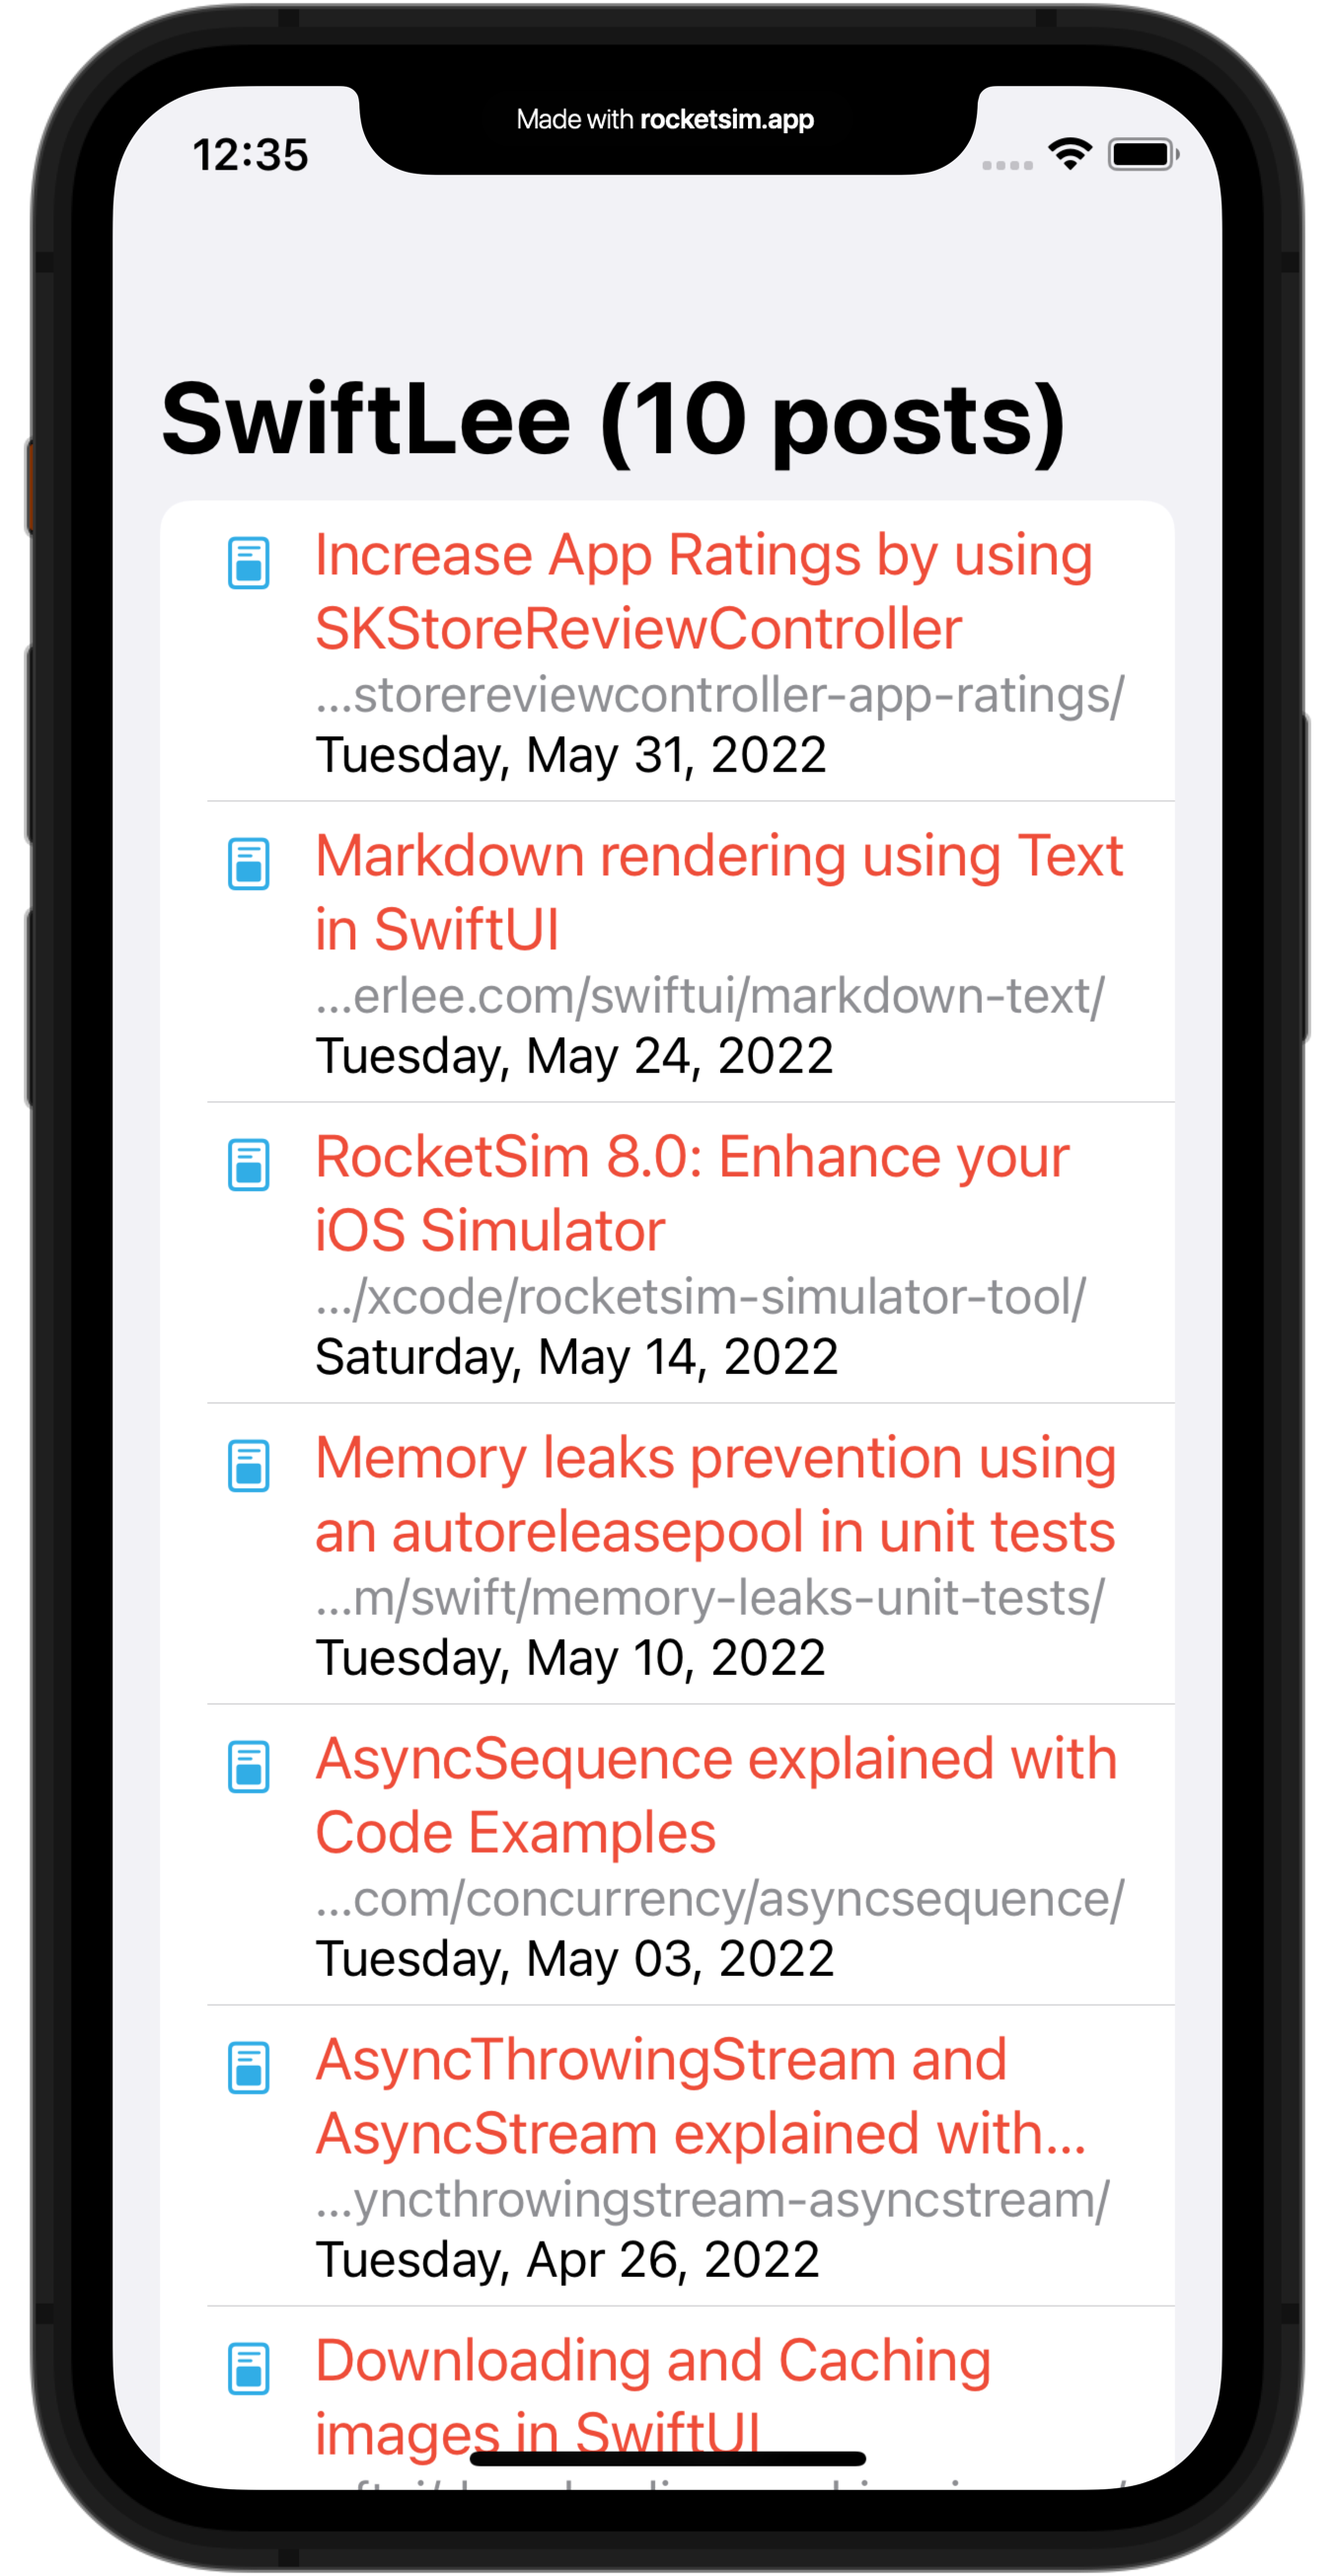
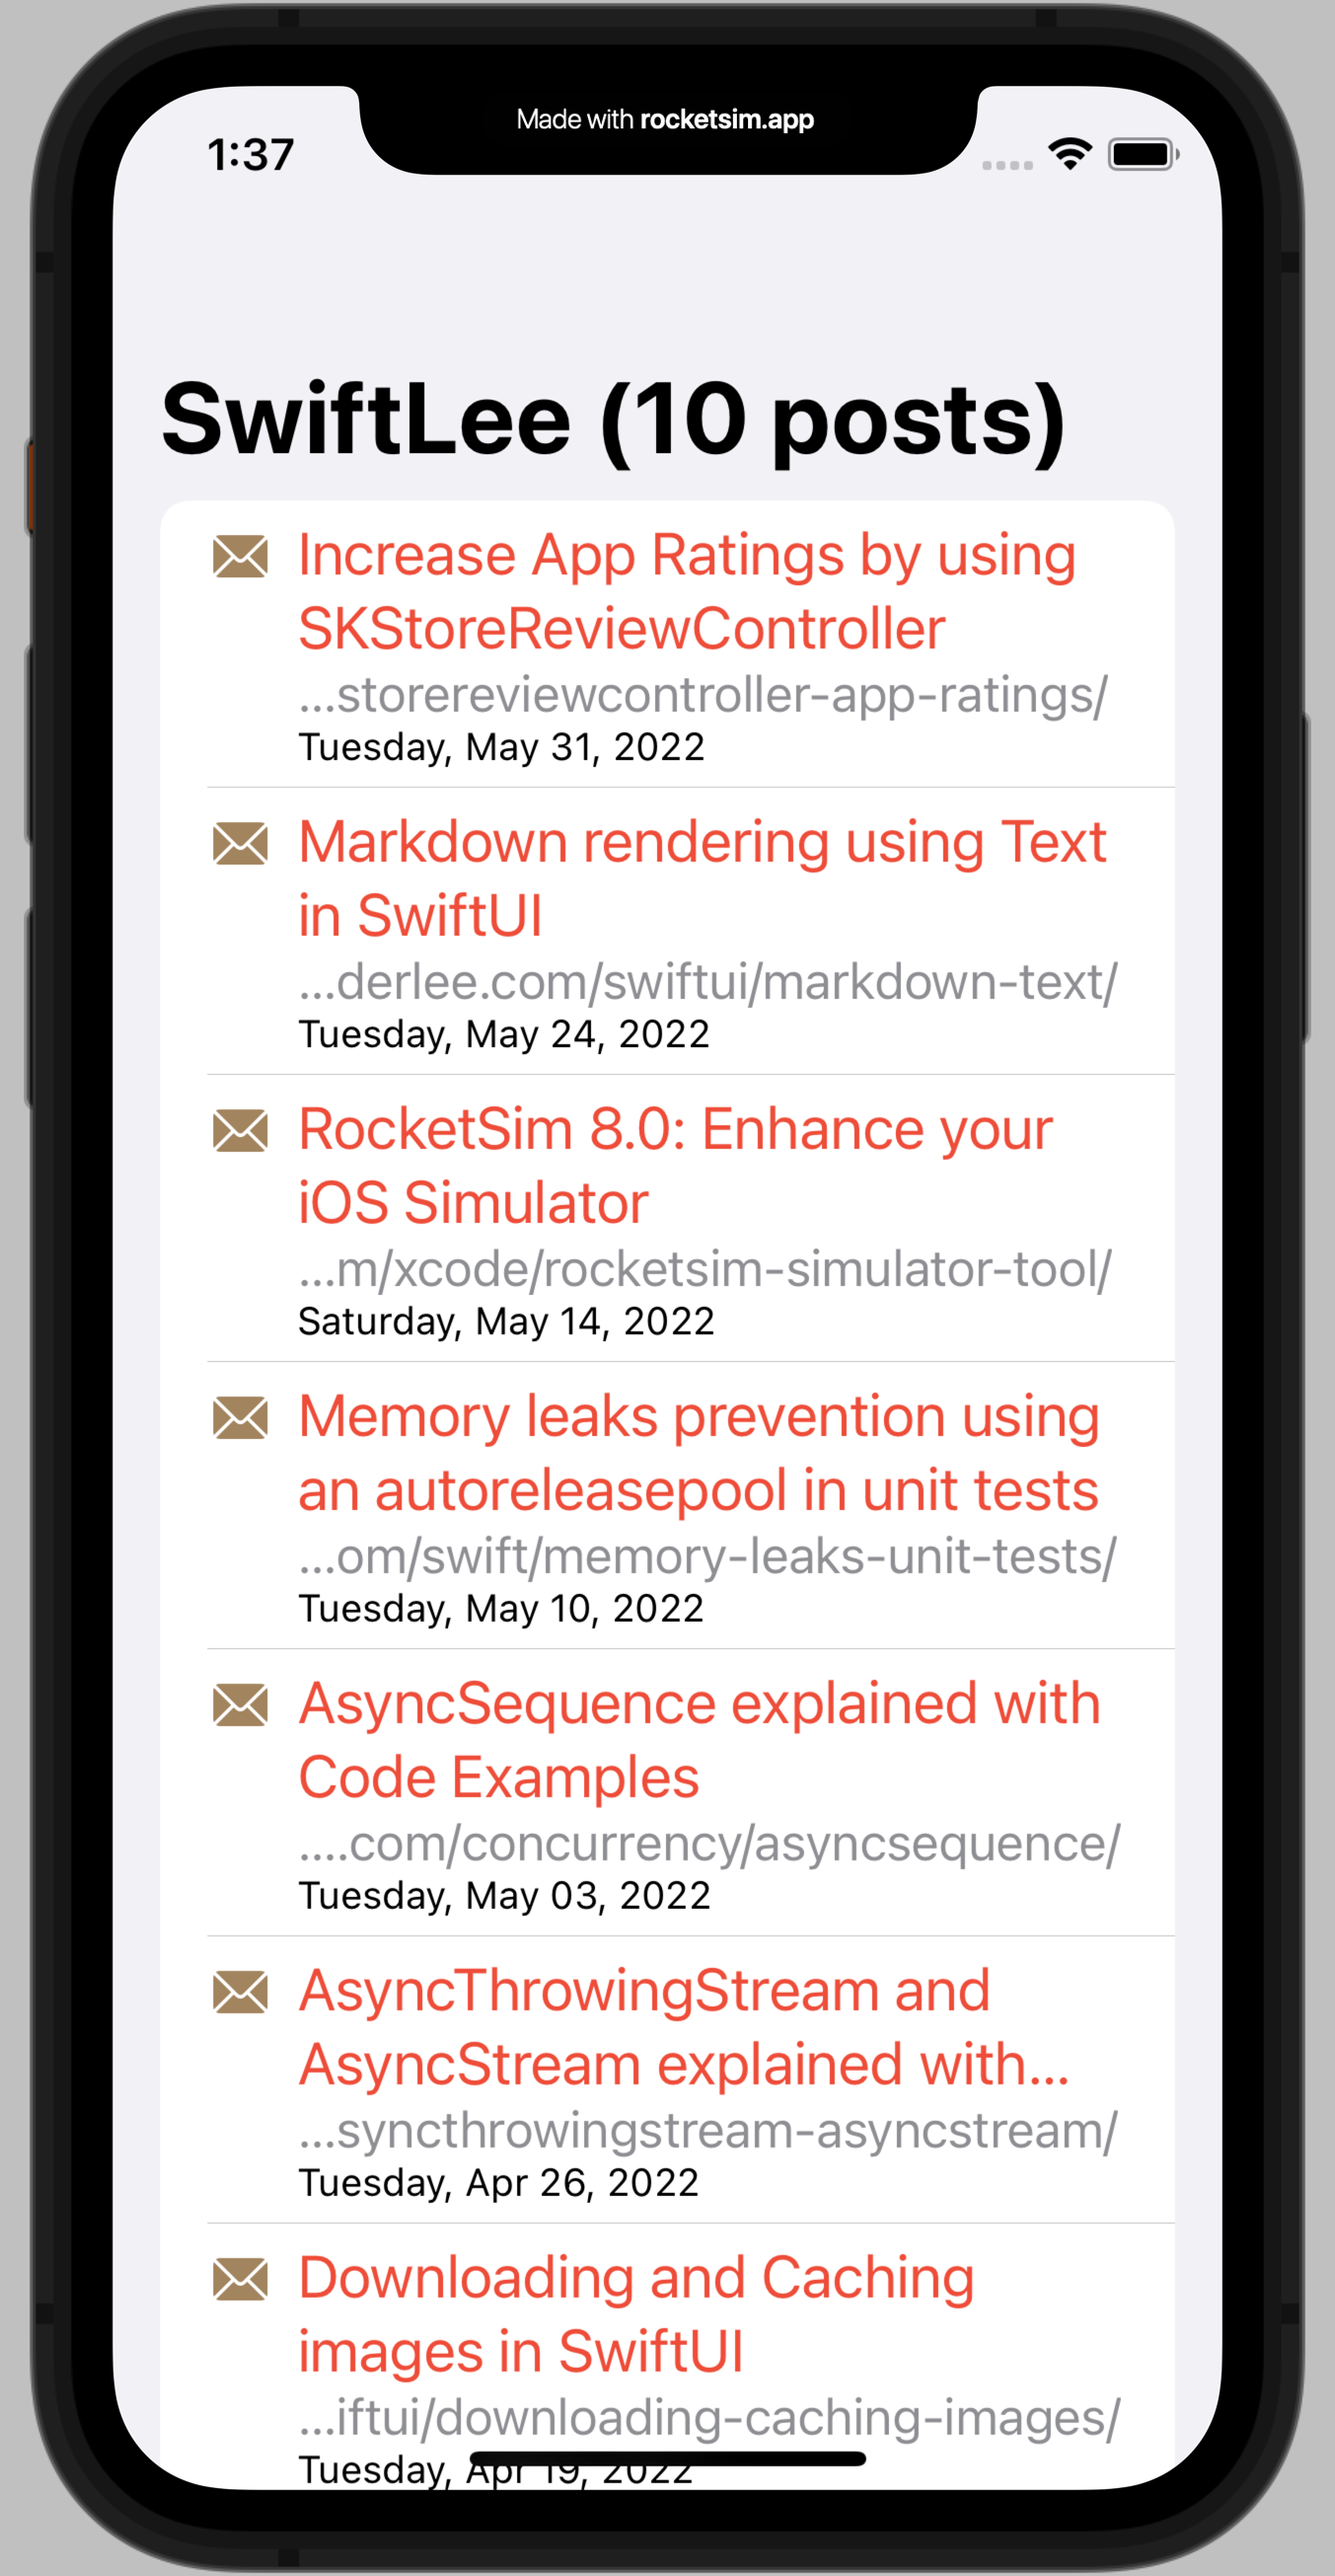
Minor user interface (and screenshot) enhancements

diff --git a/Views/PostingsView.swift b/Views/PostingsView.swift
@@ -22,9 +22,9 @@ struct PostingsView: View {
                 List {
                     ForEach(blogPosts) { blogPost in
                         HStack(alignment: .top) {
-                            Image(systemName: "doc.text.image")
-                                .padding(5)
-                                .foregroundColor(.cyan)
+                            Image(systemName: "envelope.fill") // see also "envelope.open.fill"
+                                .padding(.top, 4.5)
+                                .foregroundColor(.brown)
                             VStack(alignment: .leading) {
                                 Link(destination: blogPost.url, label: {
                                     Text(blogPost.title)
@@ -38,6 +38,7 @@ struct PostingsView: View {
                                     .truncationMode(.head)
                                     .foregroundColor(.gray)
                                 Text(viewDateFormatter.string(from: blogPost.pubDate))
+                                    .font(.footnote)
                             }
 
                         }
@@ -60,7 +61,8 @@ struct PostingsView: View {
                         }
                     }
                 }
-                .navigationTitle("SwiftLee (\(blogPosts.count) posts)")
+                .navigationTitle("SwiftLee (\(blogPosts.count) " +
+                                 "\(blogPosts.count==1 ? "post" : "posts"))") // fancy plural
             }
             .navigationViewStyle(StackNavigationViewStyle()) // avoids split screen on iPad
         }
